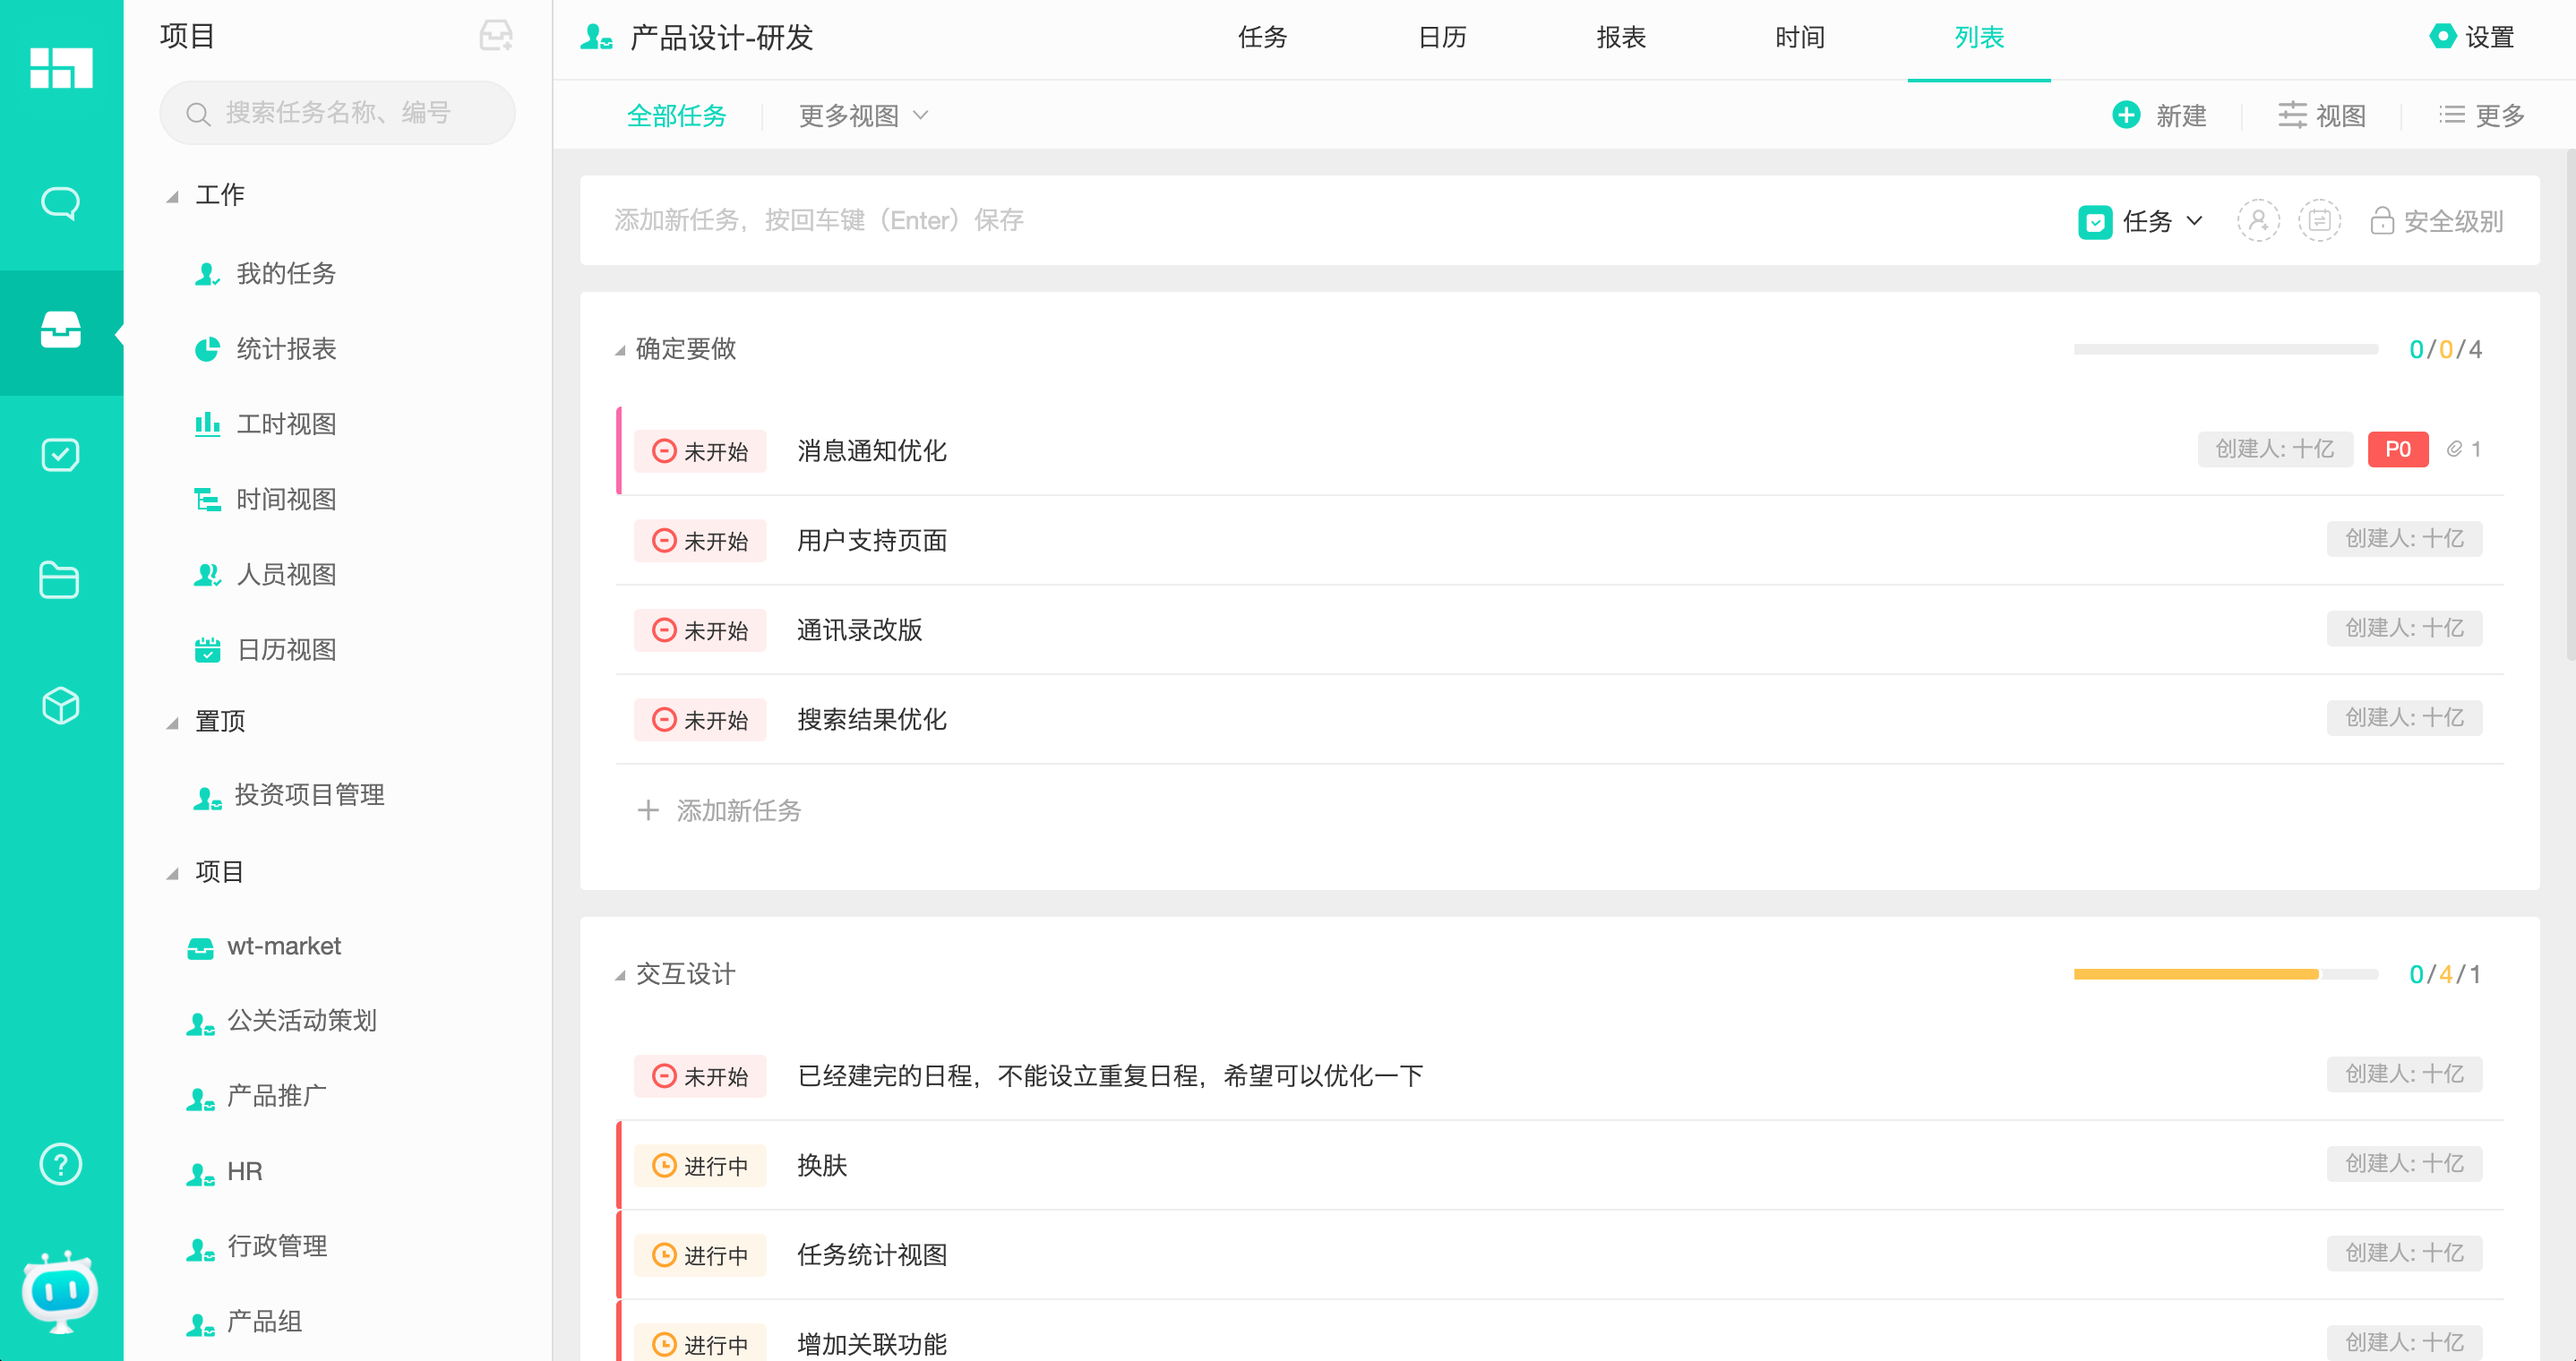
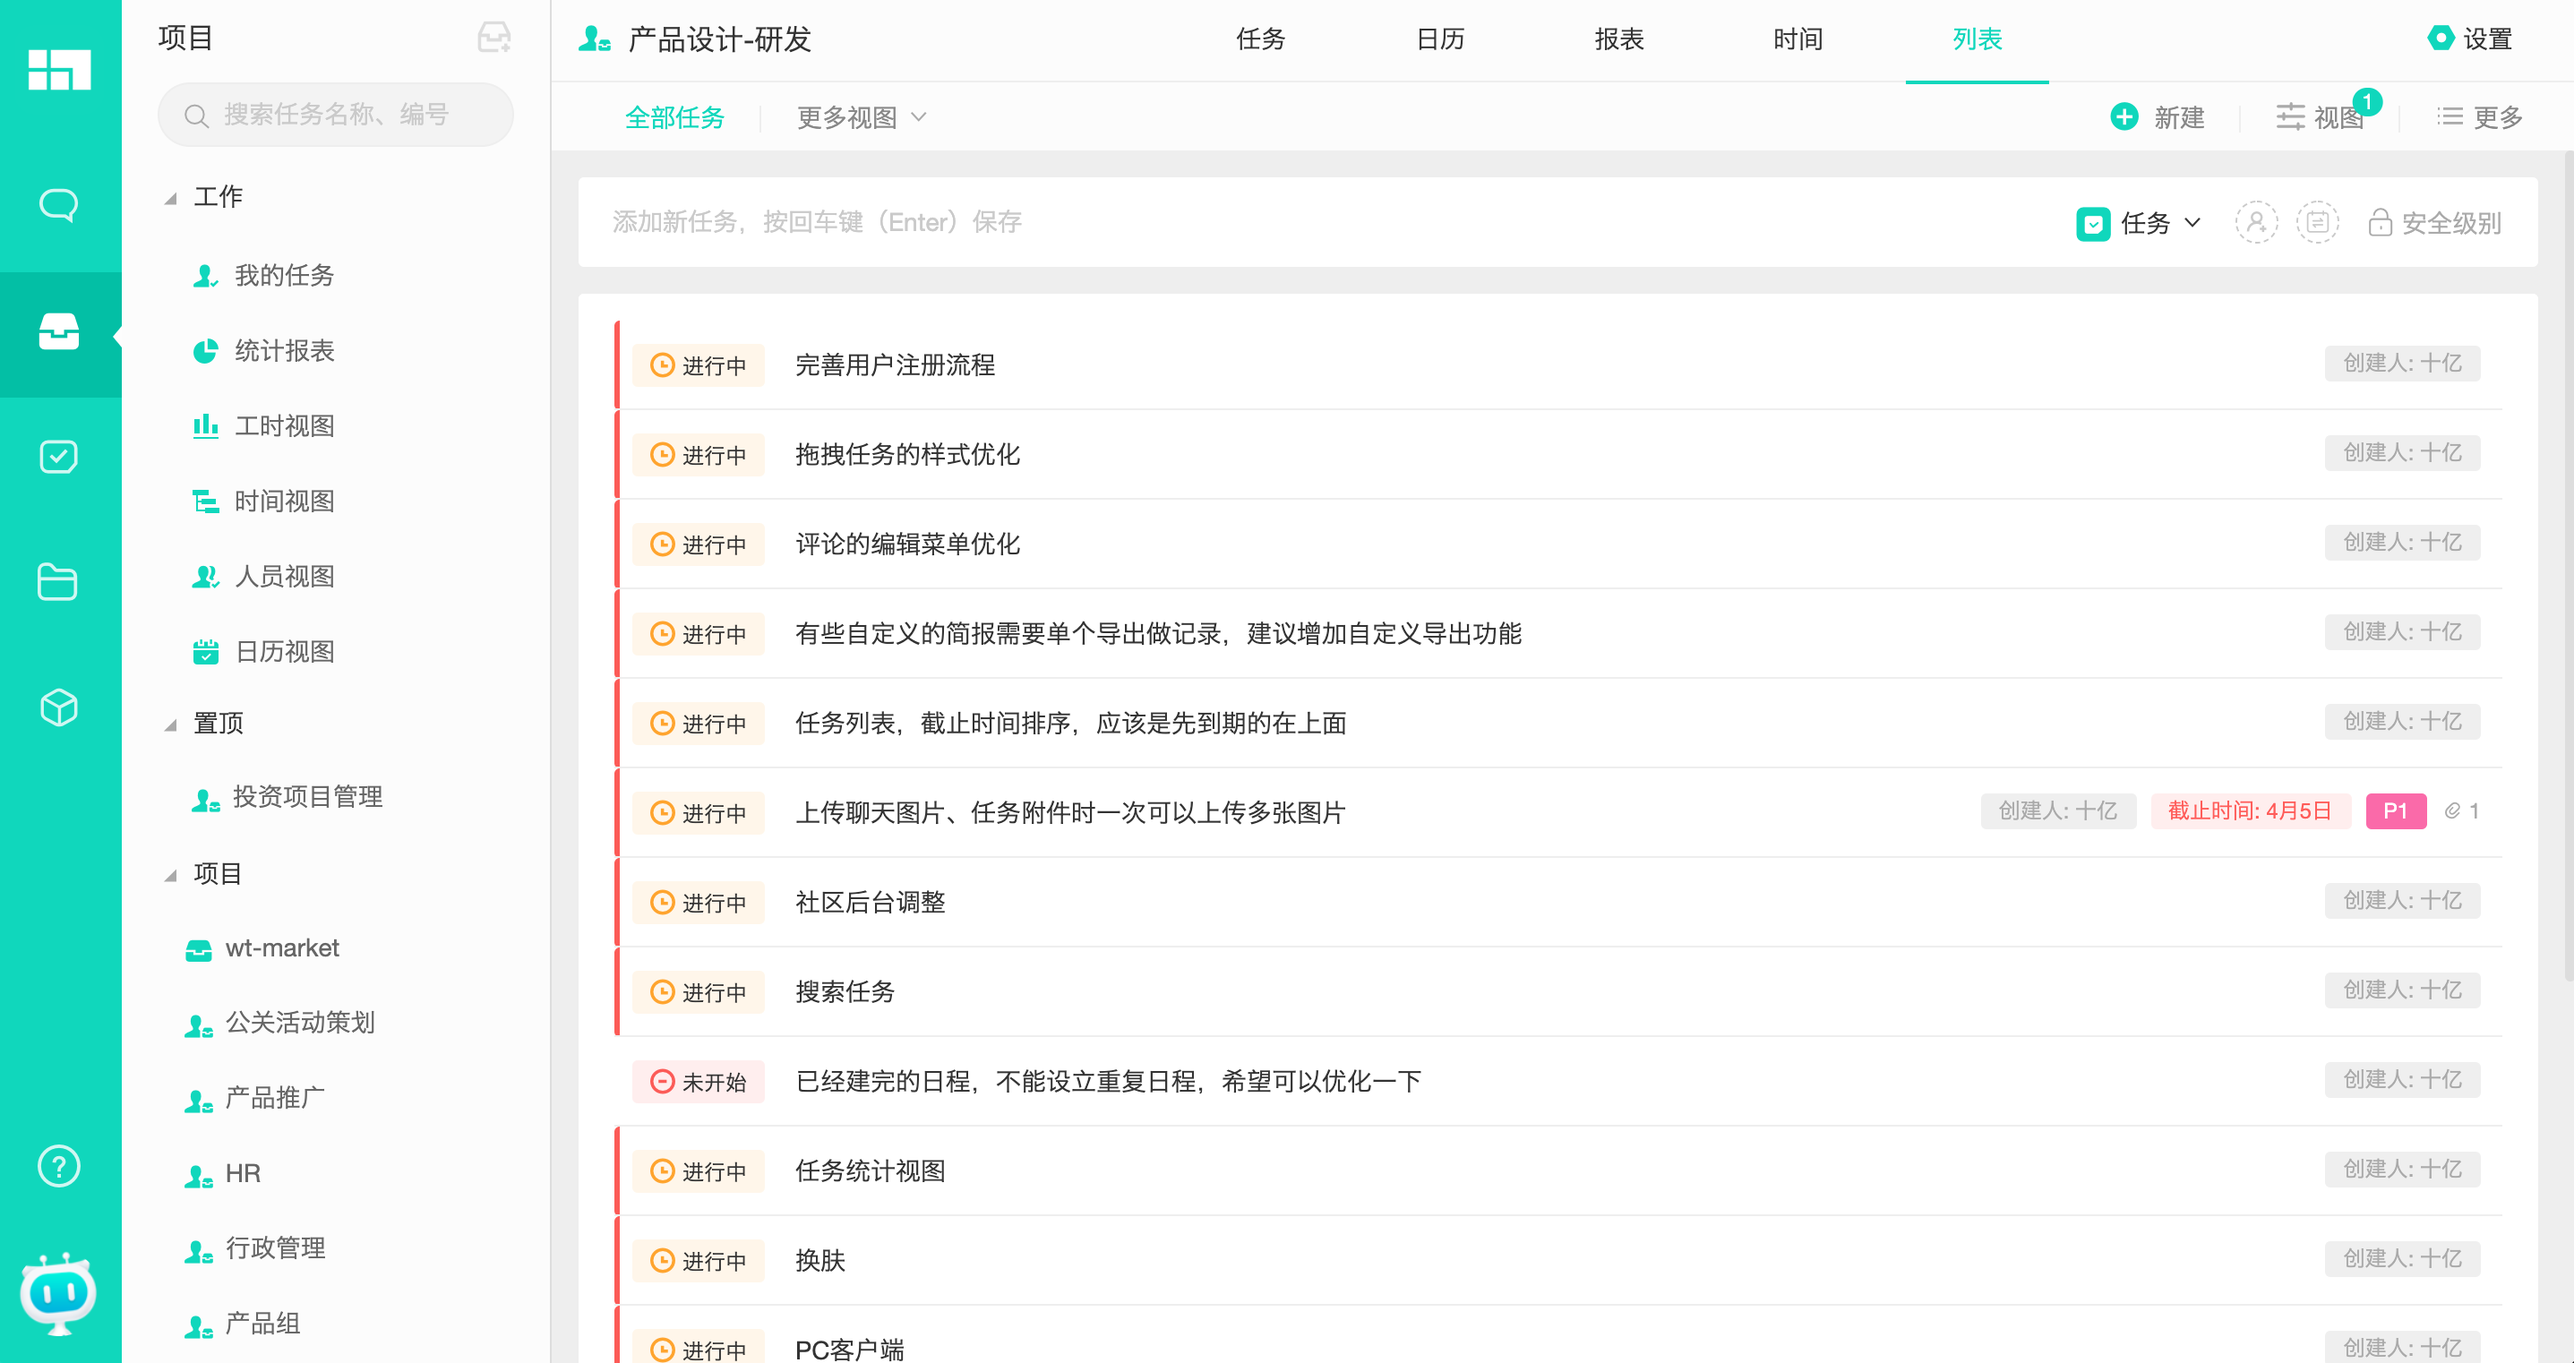
Updates how/project/basic.md
Auto commit by GitBook Editor

diff --git a/how/project/basic.md b/how/project/basic.md
@@ -103,7 +103,8 @@
 
 **2）列表**
 
-列表是
+列表是任务展示的另一种方式，以list的方式展示所有任务，相较于看板，列表展示的任务数量更多。
+
 ![](/assets/项目-列表.png)
 
 **3）表格**
